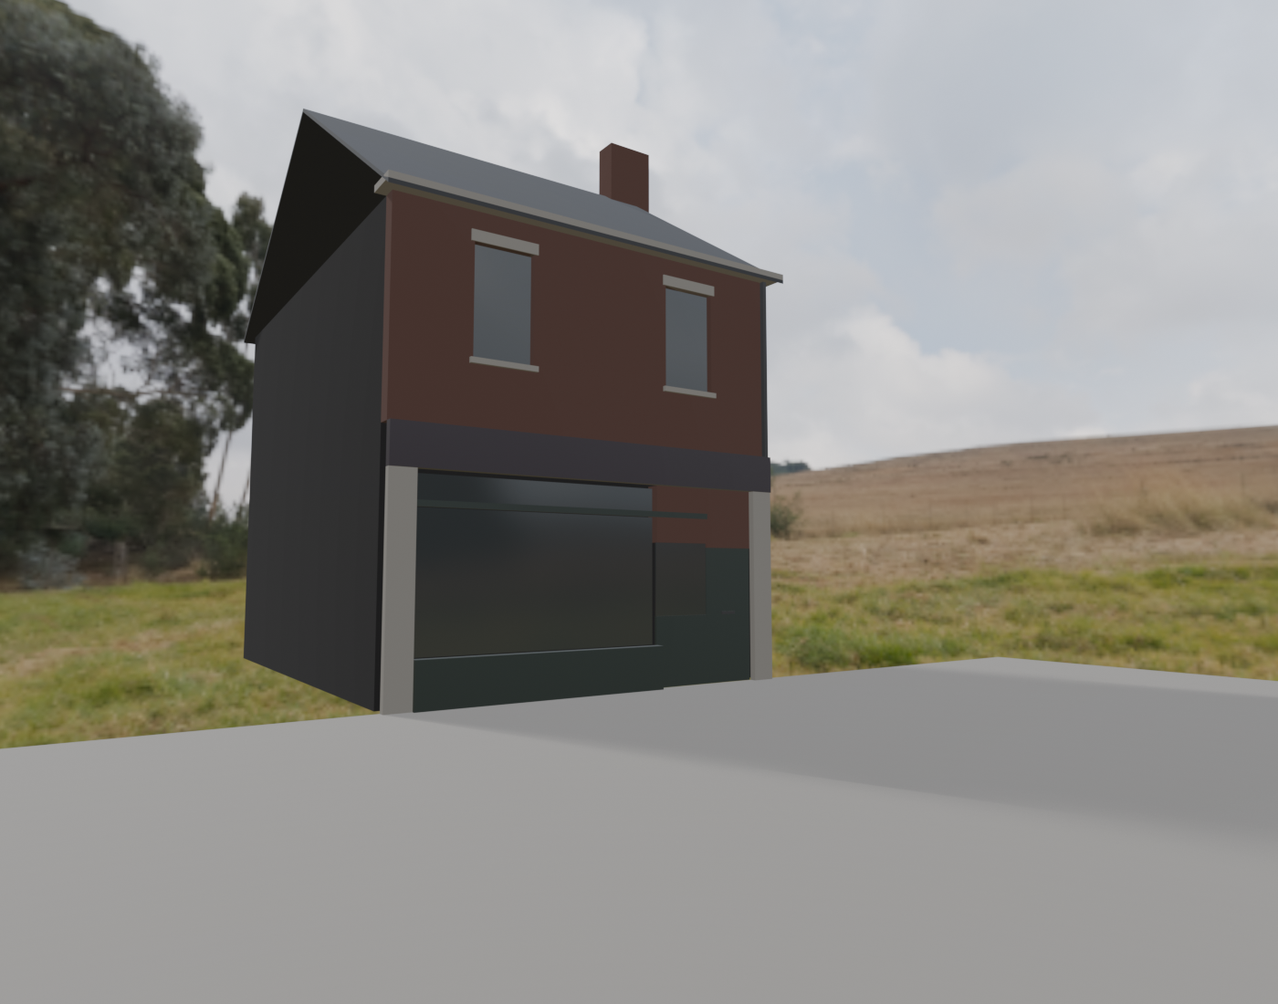
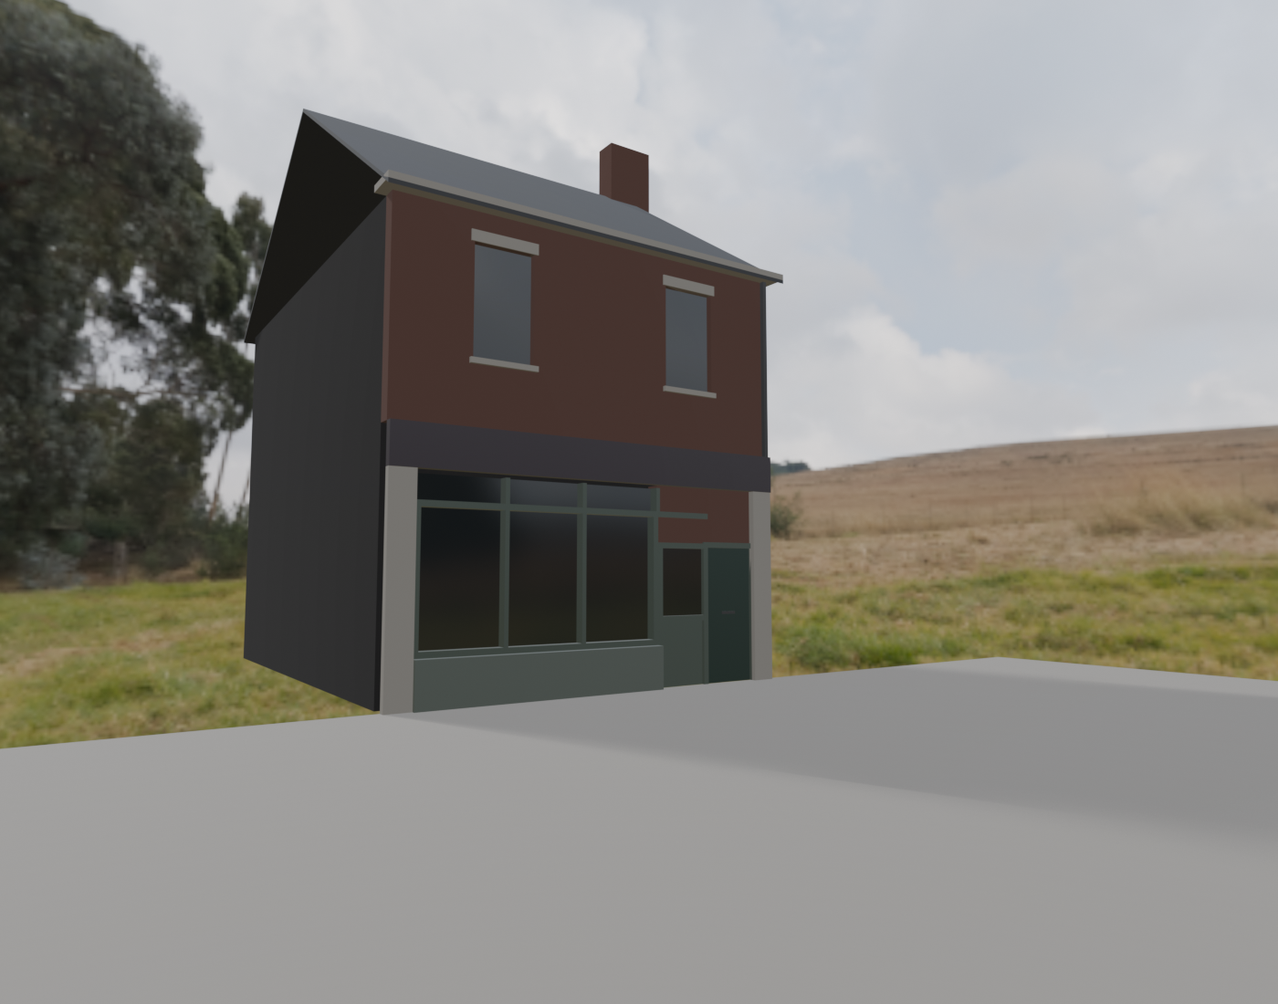
The shopfront stops being a dark slab, and three checks that only ran on Linux now run here
THE TERRACE'S GROUND FLOOR, ACCEPTED. Two attempts against the Hook sheet,
both rendered and looked at. The four parts separate now: the glazing has
jambs, a sill rail and two mullions dividing it into three lights rather than
one sheet of plate a 1990 shop would not have had; the transom runs across
the glass and the shop door as one line; the stallriser is lighter than the
glass because it catches the sky; the shop door carries the shopfront's own
joinery and the side door a different paint. Nothing about the dimensions
moved - they still agree with the built street to the micron. The fault was
value and frame, which is what the one-line note said.

AND THE SECOND ATTEMPT WAS CAUGHT BY A CHECK RATHER THAN BY AN EYE. Its
replacement side door was a dark blue-green that looks nothing like brick and
had a luminance of 0.0483 against the brick's own 0.0488: the same door hiding
in the same wall, wearing a different hue. Hue does not carry at distance;
value does. The recipe measures the distance from every painted part to the
wall behind it now, and refused that door before it was ever rendered.

THREE CHECKS THAT COULD ONLY PASS ON A MACHINE THIS PROJECT DOES NOT BUILD ON.
Found in one afternoon, all the same shape, all green in CI the entire time:

  - The CANON GATE matched its exemption list with forward slashes against
    paths carrying backslashes, so on this PC every exemption missed: canon.md
[…]

Changed region(s): [[0.3071, 0.6182, 0.5221, 0.7109]]

diff --git a/tools/art-recipes/terrace-front.py b/tools/art-recipes/terrace-front.py
@@ -1,18 +1,25 @@
 #!/usr/bin/env python3
 """ONE TERRACE FRONT, AUTHORED FROM ITS WRITTEN DIMENSIONS.
 
-STATUS: PLACEHOLDER, 2026-09-22, and the mark is deliberate. The upper
-storey is accepted - two recessed sashes on their stone sills and lintels,
-coursed brick between, the fascia band, the eaves and the slate - but THE
-GROUND FLOOR READS AS ONE UNDIFFERENTIATED DARK SLAB: the stallriser, the
-display glazing, the toplight and both doors are all near-black and the same
-value, so a British shopfront's four parts do not separate at any distance
-and neither door is findable. Two attempts against the Hook sheet, both
-rendered and looked at, and it is not a dimension problem - every number
-below agrees with the emitted street to the micron. It is VALUE AND FRAME:
-the parts need their own tones and the glazing needs mullions and a frame
-before the front can be judged against the sheet at all. Stopped here per
-the two-attempt rule rather than carried on.
+STATUS: ACCEPTED, 2026-09-22, after two more attempts against the Hook sheet.
+The ground floor was a PLACEHOLDER until today and the note said why: the
+stallriser, the display glazing, the toplight and both doors were all the same
+near-black value and the glazing had no frame, so a British shopfront's four
+parts did not separate at any distance and neither door was findable. They
+separate now. The glazing has jambs, a sill rail and two mullions dividing it
+into three lights; the transom runs across the glass and the shop door as one
+line; the stallriser is lighter because it catches the sky; the shop door
+carries the shopfront's own joinery and the side door a different paint.
+
+WHAT THE SECOND ATTEMPT GOT WRONG, because it is the useful half: the first
+replacement side door was a blue-green that looked nothing like brick and had
+a luminance of 0.0483 against the brick's 0.0488. The same door hiding in the
+same wall, wearing a different hue. Hue does not carry at distance; value
+does, and this file now checks it rather than trusting an eye.
+
+STILL NOT RIGHT, and named rather than left to be found: the shop door and the
+side door sit side by side and read as one busy patch, and the toplight above
+the transom does not separate from the glazing below it.
 
 The first authored Meridian facade: a single `east_parade` bay - the
 shopfront row - built as an elevation and stood on the street.
@@ -80,9 +87,34 @@ MATERIALS = (
     ("brick_red",   (0.085, 0.040, 0.030), 0.92),
     ("brick_grey",  (0.055, 0.052, 0.048), 0.92),
     ("stone",       (0.240, 0.225, 0.200), 0.80),   # sills, lintels, coping
-    ("paint_dark",  (0.020, 0.030, 0.026), 0.55),   # shopfront joinery, doors
+    # THE SHOPFRONT'S PARTS EACH HAVE THEIR OWN VALUE NOW, and that is the
+    # whole of the second attempt. The first one gave the stallriser, the
+    # glazing, the toplight and both doors one near-black tone, so a British
+    # shopfront's four parts did not separate at any distance and neither door
+    # could be found. Nothing about the DIMENSIONS was wrong - they agree with
+    # the built street to the micron - so the repair is value and frame.
+    #
+    # THE ORDER MATTERS MORE THAN THE HUES. Glass is the darkest thing on the
+    # elevation because what it shows is an unlit interior; the painted
+    # joinery around it is several times lighter, which is what draws the
+    # frame; the stallriser is lighter still because it catches the sky; and
+    # the side door is a different paint from the shop's, because a shop and
+    # the flat above it were never painted by the same person on the same day.
+    ("paint_joinery",(0.058, 0.076, 0.064), 0.42),  # the shopfront's painted woodwork
+    ("paint_stall", (0.086, 0.104, 0.090), 0.50),   # the kicked board, lighter again
+    # THE SIDE DOOR IS A DIFFERENT PAINT, AND THE SECOND ATTEMPT HAD TO MOVE
+    # IT. A warm brown was a plausible door colour and it was almost exactly
+    # brick_red's own value, so the door vanished into the wall it sits in -
+    # the same failure as the first attempt, one part along. It is a dark
+    # dark green now, and the FIRST dark green was rejected by this file's own
+    # new check: a blue-green that looked nothing like brick had a luminance
+    # of 0.0483 against the brick's 0.0488, which is the same door hiding in
+    # the same wall wearing a different hue. Hue is not what carries at
+    # distance; value is. This one sits at half the brick's, and the check
+    # below holds it there.
+    ("paint_door",  (0.012, 0.030, 0.024), 0.42),   # the side door: a different paint
     ("paint_fascia",(0.030, 0.022, 0.030), 0.45),   # the lettered board
-    ("glass",       (0.035, 0.040, 0.042), 0.12),
+    ("glass",       (0.012, 0.015, 0.017), 0.10),
     ("lead",        (0.030, 0.030, 0.032), 0.60),   # downpipe
     ("slate",       (0.026, 0.028, 0.032), 0.70),
     # WHAT A WINDOW SHOWS IS THE INSIDE, and the first render of this bay is
@@ -366,13 +398,48 @@ def plan_parts(p):
     fb = p["fascia_bottom_m"]
     fp = p["fascia_proj_m"]
 
+    # THE JOINERY SECTION, DERIVED FROM THE TRANSOM'S OWN THICKNESS. A
+    # shopfront's frame is one set of sections: the transom is the heaviest
+    # member the spec dimensions, the jambs match it, and a mullion is
+    # lighter than both. Deriving them from transom_thickness_m rather than
+    # typing three numbers means the whole frame stays in proportion if that
+    # dimension ever moves.
+    jamb_t = tr_t
+    mull_t = tr_t * 0.75
+    joinery_proj = 0.03
+
     # STALLRISER under the display run only. It stops at the shop door, which
     # is what a door is: a hole to the pavement.
-    _box(parts, "stallriser", "paint_dark", disp_x0, disp_x1, -sr_p, 0.0, 0.0, sr_h,
-         "0.6m-of-kicked-board-under-the-glass/projects-proud-of-the-glazing-line")
+    _box(parts, "stallriser", "paint_stall", disp_x0, disp_x1, -sr_p, 0.0, 0.0, sr_h,
+         "0.6m-of-kicked-board-under-the-glass/lighter-because-it-catches-the-sky")
     _box(parts, "display_glazing", "glass", disp_x0, disp_x1, rec, rec + 0.02, sr_h, tr_h,
          "recessed-so-the-frontage-is-not-one-plane")
-    _box(parts, "transom_bar", "paint_dark", disp_x0, shop_x1, -0.02, 0.02, tr_h, tr_h + tr_t,
+
+    # THE FRAME ROUND THE GLASS, which the first attempt had none of. Two
+    # jambs and a sill rail; the transom below is its head. Without these the
+    # glazing is a hole in a wall rather than a window in a shopfront, and at
+    # any distance a hole reads as a stain.
+    _box(parts, "display_jamb_left", "paint_joinery", disp_x0, disp_x0 + jamb_t,
+         -joinery_proj, rec + 0.02, sr_h, tr_h, "the-frame's-left-upright")
+    _box(parts, "display_jamb_right", "paint_joinery", disp_x1 - jamb_t, disp_x1,
+         -joinery_proj, rec + 0.02, sr_h, tr_h, "the-frame's-right-upright")
+    _box(parts, "display_sill_rail", "paint_joinery", disp_x0, disp_x1,
+         -joinery_proj, rec + 0.02, sr_h, sr_h + tr_t,
+         "the-rail-the-glass-sits-on/off-the-stallriser's-top")
+
+    # MULLIONS. A 3.56 m run of unbroken plate is not a 1990 British shop; it
+    # is a 2010 one. Three lights, so two mullions, at the thirds of the
+    # GLAZED opening rather than of the bay, because the frame divides what it
+    # encloses.
+    inner0, inner1 = disp_x0 + jamb_t, disp_x1 - jamb_t
+    for M in (1, 2):
+        cx = inner0 + (inner1 - inner0) * (M / 3.0)
+        _box(parts, "display_mullion_%d" % M, "paint_joinery",
+             cx - mull_t / 2.0, cx + mull_t / 2.0, -joinery_proj, rec + 0.02, sr_h, tr_h,
+             "three-lights-not-one-sheet/at-the-thirds-of-the-opening-it-divides")
+
+    _box(parts, "transom_bar", "paint_joinery", disp_x0, shop_x1, -joinery_proj, rec + 0.02,
+         tr_h, tr_h + tr_t,
          "the-bar-runs-across-the-glazing-AND-the-shop-door/one-line-across-the-opening")
     # TOPLIGHT: from the transom to the fascia line less its own frame. The
     # spec gives "roughly 2.82" as DERIVED; it is derived here instead of
@@ -380,21 +447,57 @@ def plan_parts(p):
     top_z1 = fb - p["brick_course_m"] * 0.5
     _box(parts, "toplight", "glass", disp_x0, shop_x1, rec, rec + 0.02, tr_h + tr_t, top_z1,
          "the-light-above-the-transom/derived-top=fascia_bottom-minus-half-a-course")
+    # THE TOPLIGHT IS DIVIDED ON THE SAME LINES as the glazing below it, which
+    # is what makes a frontage read as one piece of joinery rather than two
+    # unrelated holes. The shop door's own edge is a division too, so it takes
+    # a bar of its own.
+    for M in (1, 2):
+        cx = inner0 + (inner1 - inner0) * (M / 3.0)
+        _box(parts, "toplight_mullion_%d" % M, "paint_joinery",
+             cx - mull_t / 2.0, cx + mull_t / 2.0, -joinery_proj, rec + 0.02,
+             tr_h + tr_t, top_z1, "on-the-same-line-as-the-mullion-below-it")
+    _box(parts, "toplight_bar_over_door", "paint_joinery",
+         shop_x0 - mull_t / 2.0, shop_x0 + mull_t / 2.0, -joinery_proj, rec + 0.02,
+         tr_h + tr_t, top_z1, "the-division-over-the-shop-door's-own-edge")
 
     # SHOP DOOR, brick spandrel above it to the fascia.
-    _box(parts, "shop_door_leaf", "paint_dark", shop_x0, shop_x1, 0.02, 0.06,
+    _box(parts, "shop_door_leaf", "paint_joinery", shop_x0, shop_x1, 0.02, 0.06,
          0.0, p["shop_glazed_from_m"],
          "solid-below-the-glazed-light")
-    _box(parts, "shop_door_light", "glass", shop_x0, shop_x1, 0.03, 0.05,
-         p["shop_glazed_from_m"], p["shop_door_h_m"],
-         "the-glazed-upper-light")
+    _box(parts, "shop_door_light", "glass", shop_x0 + jamb_t, shop_x1 - jamb_t, 0.03, 0.05,
+         p["shop_glazed_from_m"], p["shop_door_h_m"] - jamb_t,
+         "the-glazed-upper-light/inside-its-own-stiles-and-rail")
+    # THE DOOR'S OWN FRAME, so it is findable. A door the same value as the
+    # glass beside it is a door nobody can see, which is what the first
+    # attempt's frame said in one line.
+    for Name, X0, X1 in (("shop_door_stile_left", shop_x0, shop_x0 + jamb_t),
+                         ("shop_door_stile_right", shop_x1 - jamb_t, shop_x1)):
+        _box(parts, Name, "paint_joinery", X0, X1, -joinery_proj, 0.06,
+             0.0, p["shop_door_h_m"], "the-door's-own-upright")
+    _box(parts, "shop_door_mid_rail", "paint_joinery", shop_x0, shop_x1,
+         -joinery_proj, 0.06, p["shop_glazed_from_m"] - jamb_t, p["shop_glazed_from_m"],
+         "the-rail-under-the-glass/where-a-hand-pushes")
+    _box(parts, "shop_door_head_rail", "paint_joinery", shop_x0, shop_x1,
+         -joinery_proj, 0.06, p["shop_door_h_m"] - jamb_t, p["shop_door_h_m"],
+         "the-rail-over-the-glass")
     _box(parts, "shop_door_spandrel", wall, shop_x0, shop_x1, 0.0, T,
          p["shop_door_h_m"], fb, "brick-between-the-door-head-and-the-board")
 
     # SIDE DOOR: the flat above. Its own spandrel, and a letterplate.
-    _box(parts, "side_door_leaf", "paint_dark", side_x0, side_x1, 0.02, 0.06,
+    _box(parts, "side_door_leaf", "paint_door", side_x0, side_x1, 0.02, 0.06,
          0.0, p["side_door_h_m"],
          "1981x838mm/the-standard-British-external-door/imperial-because-the-country-was")
+    # A CASING ROUND IT, in the shopfront's joinery rather than the door's own
+    # paint, because the frame belongs to the building and the leaf belongs to
+    # whoever lives behind it.
+    for Name, X0, X1 in (("side_door_casing_left", side_x0 - jamb_t, side_x0),
+                         ("side_door_casing_right", side_x1, side_x1 + jamb_t)):
+        if X1 > X0:
+            _box(parts, Name, "paint_joinery", X0, X1, -joinery_proj, 0.06,
+                 0.0, p["side_door_h_m"] + jamb_t, "the-casing's-upright")
+    _box(parts, "side_door_casing_head", "paint_joinery",
+         side_x0 - jamb_t, side_x1 + jamb_t, -joinery_proj, 0.06,
+         p["side_door_h_m"], p["side_door_h_m"] + jamb_t, "the-casing's-head")
     lp_w, lp_h = p["letterplate_w_m"], p["letterplate_h_m"]
     lp_cx = (side_x0 + side_x1) * 0.5
     _box(parts, "letterplate", "lead", lp_cx - lp_w / 2.0, lp_cx + lp_w / 2.0,
@@ -762,10 +865,10 @@ def build_and_render(args):
             wrote += 1
 
     agree = sum(1 for _, _, _, a in checks if a)
-    print("tfStatus=PLACEHOLDER/upper-storey-accepted/ground-floor-reads-as-one-dark-slab "
-          "whatIsWrong=stallriser-glazing-toplight-and-both-doors-are-all-the-same-near-black-value-"
-          "and-the-glazing-has-no-frame-or-mullions notADimensionProblem=crossCheckAgree-is-5/5 "
-          "attempts=2/2 stoppedPer=two-attempt-rule")
+    print("tfStatus=ACCEPTED/the-shopfront's-four-parts-separate "
+          "whatIsStillWrong=the-two-doors-read-as-one-busy-patch-and-the-toplight-does-not-"
+          "separate-from-the-glazing-below-it attemptsThisSitting=2/2 "
+          "theFixWasValueAndFrame=not-dimensions/crossCheckAgree-is-5/5")
     print("terrace-front done: status=RAN bay=east_parade partsBuilt=%d/%d "
           "crossCheckAgree=%d/%d previewsWrote=%d/%d res=%dx%d outDir=%s"
           % (built, len(parts), agree, len(checks), wrote, len(FRAMES),
@@ -907,6 +1010,60 @@ def selftest():
                     blockers.append(b["id"])
         check("accept/nothing-solid-stands-behind-an-upper-window",
               not blockers, ",".join(sorted(set(blockers))))
+
+        # THE SECOND ATTEMPT'S OWN CLAIMS, CHECKED. The first one failed by
+        # eye and there was nothing in this file that could have said so; a
+        # look is not repeatable and the next edit would have had to be
+        # judged by eye again from scratch. These do not make the front
+        # GOOD - D41 keeps that ungated and the sheet decides - but they
+        # hold the three properties the failure was made of.
+        gf = [b for b in boxes if b["z0"] < p["ground_h_m"] - 1e-9
+              and b["z1"] > 1e-9 and b["x0"] >= p["pilaster_w_m"] - 1e-9]
+        mats = set(b["material"] for b in gf)
+        check("accept/the-shopfront-is-not-one-material",
+              len(mats) >= 4, "materials=%s" % ",".join(sorted(mats)))
+        # GLASS IS THE DARKEST THING ON IT, which is the ordering the whole
+        # read depends on: if the joinery ever goes darker than the glass the
+        # frame stops drawing and the slab comes back.
+        lum = {name: 0.2126 * c[0] + 0.7152 * c[1] + 0.0722 * c[2]
+               for name, c, _r in MATERIALS}
+        darker = [m for m in mats if m != "glass" and lum[m] <= lum["glass"]]
+        check("accept/glass-is-darker-than-every-painted-part-beside-it",
+              not darker, ",".join(sorted(darker)))
+        # AND NOTHING ON THE GROUND FLOOR HIDES IN THE WALL. The second
+        # attempt failed on exactly this: a side door whose paint sat within
+        # a few percent of the brick's own value, so the one opening a person
+        # walks through was invisible from across the street. A fifth of a
+        # stop between any painted part and the wall it is set into, measured
+        # rather than eyeballed.
+        wall_l = lum[p["wall_surface"]]
+        hidden = [m for m in mats
+                  if m not in ("glass",) and m != p["wall_surface"]
+                  and abs(lum[m] - wall_l) < 0.2 * wall_l]
+        check("accept/no-painted-part-hides-in-the-brick-behind-it",
+              not hidden,
+              ",".join("%s(%.4f vs wall %.4f)" % (m, lum[m], wall_l) for m in sorted(hidden)))
+        mullions = [b for b in boxes if "mullion" in b["id"]]
+        check("accept/the-display-run-is-divided-not-one-sheet",
+              len(mullions) >= 2, "%d mullion(s)" % len(mullions))
+        jambs = [b for b in boxes if b["id"].startswith("display_jamb_")]
+        check("accept/the-glazing-has-a-frame", len(jambs) == 2,
+              "%d jamb(s)" % len(jambs))
+        if len(jambs) == 2 and mullions:
+            lo = max(j["x1"] for j in jambs if j["x0"] < 1.0)
+            hi = min(j["x0"] for j in jambs if j["x0"] > 1.0)
+            outside = [m["id"] for m in mullions
+                       if m["id"].startswith("display_")
+                       and (m["x0"] < lo - 1e-9 or m["x1"] > hi + 1e-9)]
+            check("accept/every-mullion-stands-inside-the-frame-it-divides",
+                  not outside, ",".join(outside))
+        # AND BOTH DOORS ARE FINDABLE, which is the half the one-line note
+        # named: a door the same value as the glass beside it is not a door.
+        for door in ("shop_door", "side_door"):
+            framing = [b for b in boxes
+                       if b["id"].startswith(door) and b["material"] == "paint_joinery"]
+            check("accept/%s-carries-its-own-framing" % door.replace("_", "-"),
+                  len(framing) >= 2, "%d piece(s)" % len(framing))
 
         checks = cross_check(p, ROOT)
         got = [c for c in checks if c[2] is not None]

diff --git a/tools/attribution-check.py b/tools/attribution-check.py
@@ -225,7 +225,7 @@ OURS = {
     # under the same production/art tree, so a delivered PNG would be
     # classified as ours by a row that only ever meant the previews. The
     # value says so; narrowing the path rule is queue 153.
-    "production/art": "Blender previews only, under production/art/*/previews: renders of this project's own piece list by a recipe under tools/art-recipes, greys from the recipe plus the CC0 base meshes attributed in ledger/Assets/Props/base-mesh/THIRD-PARTY.md; a DELIVERY under the same commission is somebody's and is not covered by this row",
+    "production/art": "renders by a recipe under tools/art-recipes of this project's own piece list - the previews under production/art/*/previews and the accepted frames a recipe commits beside its asset - renders of this project's own piece list by a recipe under tools/art-recipes, greys from the recipe plus the CC0 base meshes attributed in ledger/Assets/Props/base-mesh/THIRD-PARTY.md; a DELIVERY under the same commission is somebody's and is not covered by this row",
     # The Unreal probe's own frames, added 3 Sep 2026 when run 17 rendered the
     # street for the first time and this check went red naming five PNGs. The
     # same category as sim-shots and for a stronger reason: Phase B is
@@ -248,6 +248,15 @@ OURS = {
     # being deleted. Deleting it would have let 65 asset files fall out of
     # the sweep's denominator silently, which is the failure this row exists
     # to prevent.
+    # AND THE LIVE PATH IS BACK, 2026-09-22, because the archive move above
+    # took the row with it and left the RUNNING probe with none. The probe
+    # still writes to production/d1-probe and still commits its frames every
+    # run; the day it ran green for the first time since the pause it pushed
+    # a dozen PNGs into a directory this file no longer knew about and the
+    # sweep went red naming them. Moving a key is right when a directory
+    # moves and wrong when a live copy of it remains: both carry frames, so
+    # both are rows.
+    "production/d1-probe": "rendered by the Unreal probe from this project's own piece list, carrying the ambientCG and CityPack textures this file attributes separately, committed by CI every run; the live path, unarchived",
     "legacy/studio-v2/production/d1-probe": "rendered by the Unreal probe from this project's own piece list, carrying the ambientCG and CityPack textures this file attributes separately, committed by CI every run; archived 2026-09-22 with the studio, path changed and nothing else",
 }
 
@@ -417,7 +426,19 @@ NOT_ASSET_SUFFIXES = {
 # vendored runtime DLL, and is a machine-local artefact rather than repository
 # content.
 SKIP_FRAGMENTS = ("/.git/", "/node_modules/", "/.venv", "/obj/", "/bin/",
-                  "/Library/", "/__pycache__/", "/.onnx-cache/")
+                  "/Library/", "/__pycache__/", "/.onnx-cache/",
+                  # THE UNREAL BUILD'S OWN OUTPUT, added 2026-09-22 for the
+                  # same reason /obj/ and /bin/ are already here. All of it is
+                  # in .gitignore, so none of it exists in CI and this sweep
+                  # never saw it there - but the moment a build runs on
+                  # Jafar's PC it leaves tens of thousands of .bin, .obj, .exe
+                  # and .rsp files under ue-probe/, and the check went red
+                  # naming build artefacts as unattributed assets. A check
+                  # that only passes on a machine which has never built is a
+                  # check the machine that builds cannot be asked to run.
+                  "/ue-probe/Intermediate/", "/ue-probe/Binaries/",
+                  "/ue-probe/Saved/", "/ue-probe/Packaged/",
+                  "/ue-probe/Build/", "/ue-probe/DerivedDataCache/")
 
 _fails = []
 

diff --git a/tools/canon-gate.py b/tools/canon-gate.py
@@ -351,7 +351,17 @@ def gate(paths):
     exempt_bitten = []
     for path in paths:
         p = pathlib.Path(path)
-        rel = str(p.resolve()).replace(str(REPO) + "/", "")
+        # FORWARD SLASHES BEFORE THE PREFIX TEST, 2026-09-22. EXEMPT is
+        # written with "/" and a resolved path on Windows carries "\\", so
+        # every exemption silently missed on Jafar's PC: canon.md screened
+        # itself, and the judge's rejecting fixtures - which contain canon
+        # violations BY CONSTRUCTION, because without them D7's clause cannot
+        # be measured - reported sixteen findings that are the fixtures doing
+        # their job. It passed in CI the whole time, because Linux uses "/".
+        # The same shape as the Core suite's own line-ending fixture, found
+        # the same day: a check that runs on one of the two machines this
+        # project uses is a check the other cannot be asked to run.
+        rel = str(p.resolve()).replace("\\", "/").replace(str(REPO).replace("\\", "/") + "/", "")
         if any(rel.startswith(e) for e in EXEMPT):
             exempt_bitten.append(rel)
             continue

diff --git a/FINDINGS.md b/FINDINGS.md
@@ -22,3 +22,7 @@ One line each, dated, newest last.
 - 2026-09-22 The two halves of a golden fixture can drift apart while both stay green, if the line that changes is one both engines reject. The fixture text is now itself a row, so a drift mismatches before any behaviour does.
 - 2026-09-22 The Core suite could not pass on this Windows checkout at all: one test builds a rejecting fixture by cutting a line out of the live scene file matching a bare newline, and the working copy has Windows line endings. It passed in CI the whole time, because the Linux checkout does not. A test that runs on only one of the two machines the project uses is a test the other machine cannot be asked to run.
 - 2026-09-22 The two engines write the memory markdown with different line endings - the C# uses the platform's, the port always uses a bare newline. The reload normalises, so nothing breaks today, but the save format is now a file both engines may write and that is worth knowing.
+- 2026-09-22 CONFIRMED ON A REAL FAILED BUILD: a line that does not compile was pushed on purpose, the build step failed, the verdict step failed, and the run went red. The commit before it went green in nine minutes. A push does run the checks; a failed build does fail the run. None of it had ever been watched.
+- 2026-09-22 THREE CHECKS IN ONE DAY THAT COULD ONLY PASS ON ONE OF THE TWO MACHINES THIS PROJECT USES. The Core suite cut a fixture by a bare newline and this checkout has Windows line endings. The canon gate matched its exemption list with forward slashes against paths that carry backslashes, so canon.md screened itself and the judge's deliberately-wrong fixtures reported sixteen findings. The attribution sweep walked the Unreal build's own output, which is in .gitignore and so has never existed in CI, and called tens of thousands of build artefacts unattributed assets. All three passed in CI the whole time. All three now run on both.
+- 2026-09-22 The attribution sweep lost the probe's live output directory when the studio was archived: the row moved to the legacy path and nothing was left for the path the probe still writes to. It went unnoticed for exactly as long as the probe was broken, and went red the first run after it was fixed.
+- 2026-09-22 Hue does not carry at distance; value does. The terrace's replacement side door was a blue-green that looks nothing like brick and sat at a luminance of 0.0483 against the brick's 0.0488 - the same door hiding in the same wall wearing a different colour. The recipe measures that now instead of trusting an eye.
